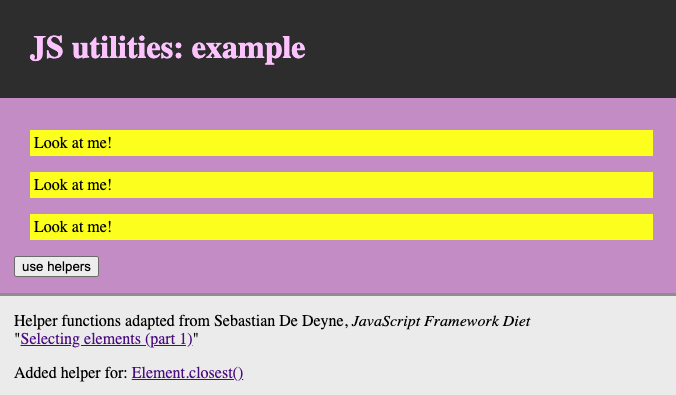
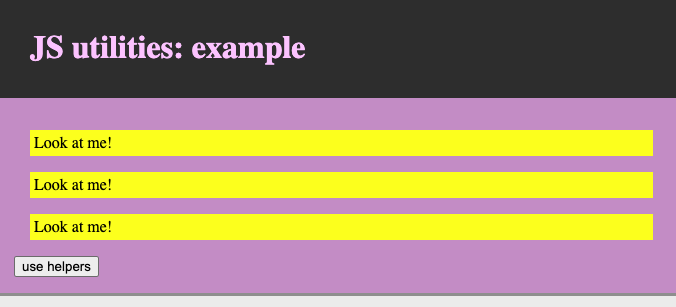
Trim image, add MDN link to 'closest'

diff --git a/readme.md b/readme.md
@@ -9,7 +9,7 @@ See a [live example](https://front-end-materials.github.io/js-helpers/)
 - `document.getElementById()` becomes `id(selector)` (returns a single element)
 - `document.querySelector()` becomes `$(selector)` (returns a single element)
 - `document.querySelectorAll()` becomes `$$(selector)` (returns a ready-to-use array of elments)
-- [`el.closest()`](https://developer.mozilla.org/en-US/docs/Web/API/Element/closest) becomes `up("element", "parent")` (returns the first **specified parent element** of the **given element**)
+- [`el.closest()`](https://developer.mozilla.org/en-US/docs/Web/API/Element/closest) becomes `up("element", "parent")` (returns the first **specified parent element** of the **given element** - see [MDN on "closest"](https://developer.mozilla.org/en-US/docs/Web/API/Element/closest))
 
 These can be used in combination, for example to find the main tag that includes section tags: `up($("main > section"), "main")`
 
